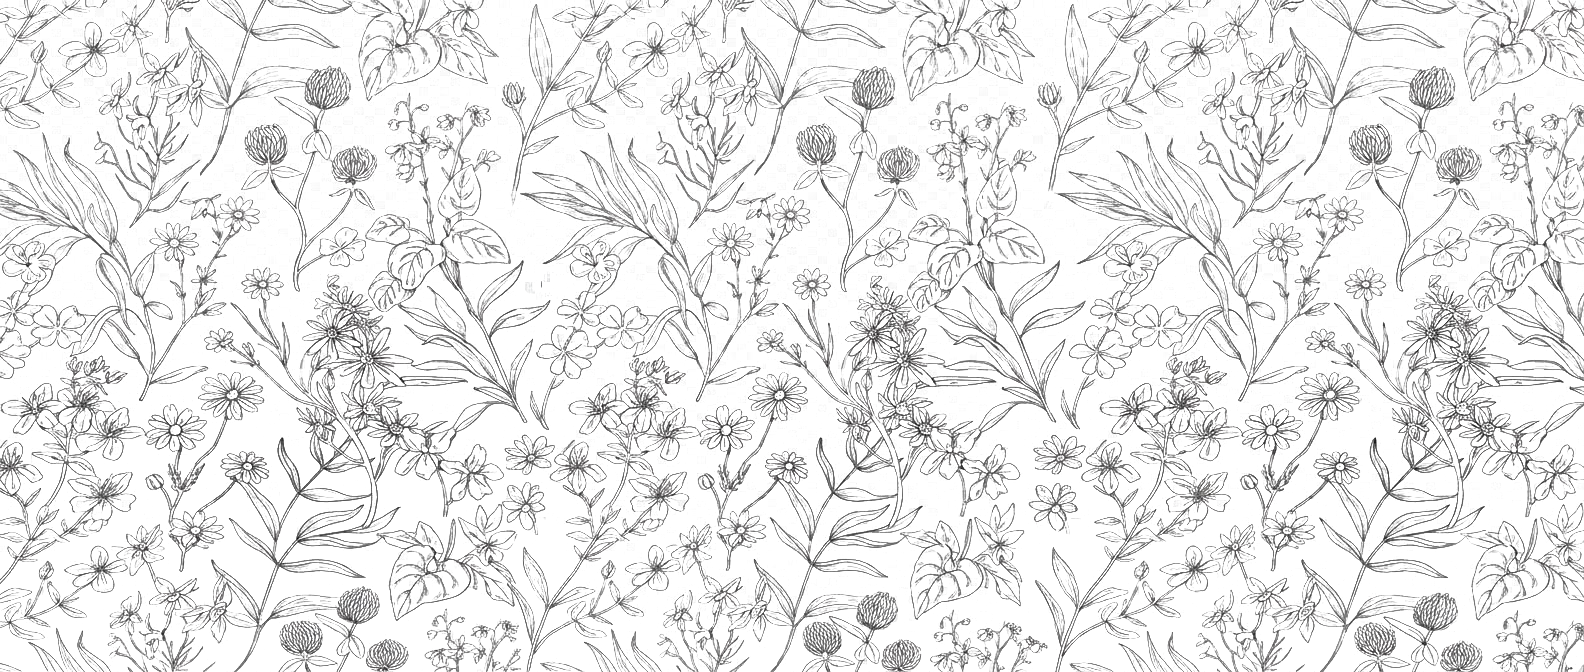
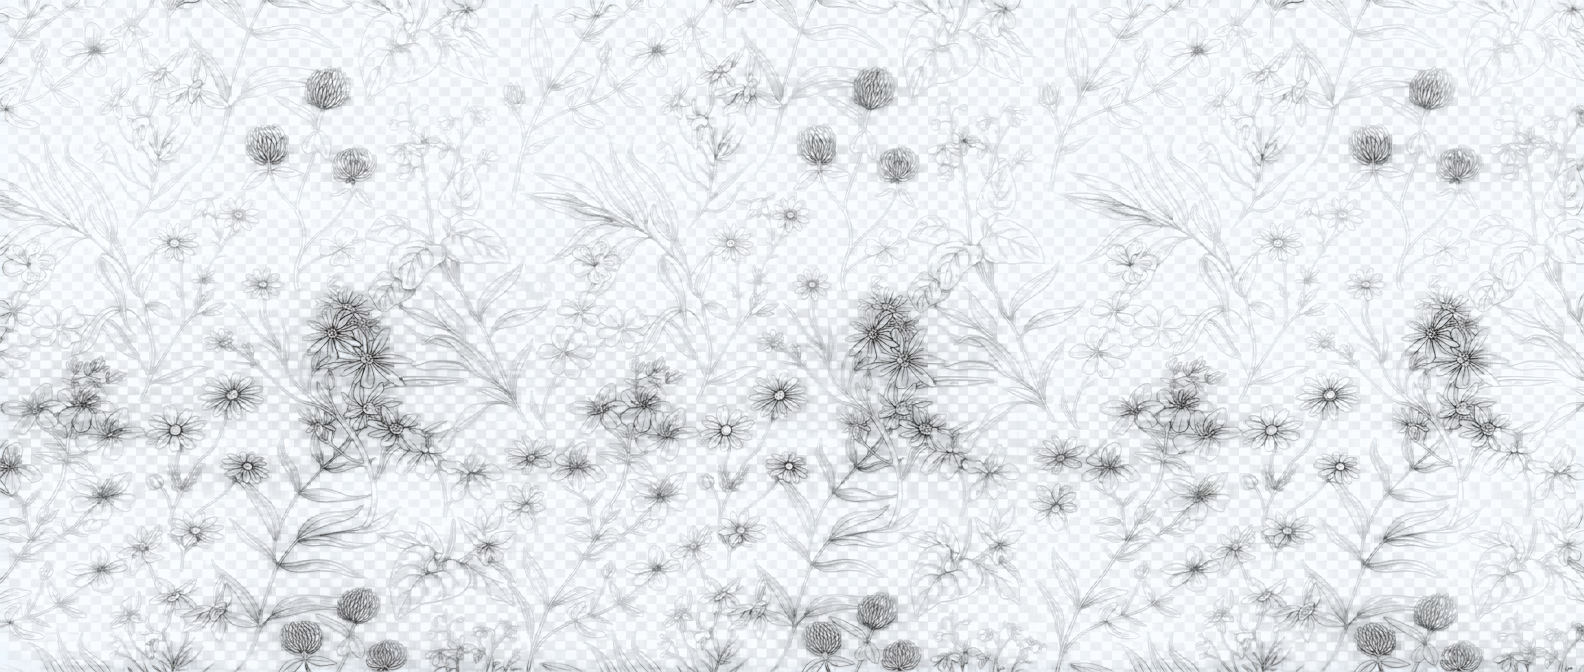
Match hero background to site cream and re-tune floral watermark
- Hero section background switched from bg-white to bg-primary
  (#F8F5F1) so it matches the off-white used everywhere else.
- Floral watermark: dropped the invert filter (was flipping the
  artwork's dark line work to near-invisible white on the light bg)
  and raised opacity to 40% so the pattern reads clearly again.
- Swapped in an updated floral pattern source image.

diff --git a/src/components/EditorialHero.tsx b/src/components/EditorialHero.tsx
@@ -236,23 +236,22 @@ export default function EditorialHero() {
           area behind the fixed nav (the -mt/pt trick above pulls this section's own
           box up to the true page top, y=0, instead of starting below the nav). A
           different source image is used per breakpoint (landscape vs portrait crop).
-          Source PNGs have transparent backgrounds with dark line work; `invert`
-          flips the lines to white (transparency is unaffected by the filter),
-          giving a barely-there ghosted watermark at 30% opacity on the page background. */}
+          Source PNGs have transparent backgrounds with dark line work, shown at
+          partial opacity directly (no `invert`) against the off-white section bg. */}
       <div aria-hidden="true" className="absolute inset-0 pointer-events-none">
         <Image
           src="/patterns/floral-desktop.png"
           alt=""
           fill
           priority
-          className="hidden md:block object-cover opacity-30 invert"
+          className="hidden md:block object-cover opacity-40"
         />
         <Image
           src="/patterns/floral-mobile.png"
           alt=""
           fill
           priority
-          className="md:hidden object-cover opacity-30 invert"
+          className="md:hidden object-cover opacity-40"
         />
       </div>
 
